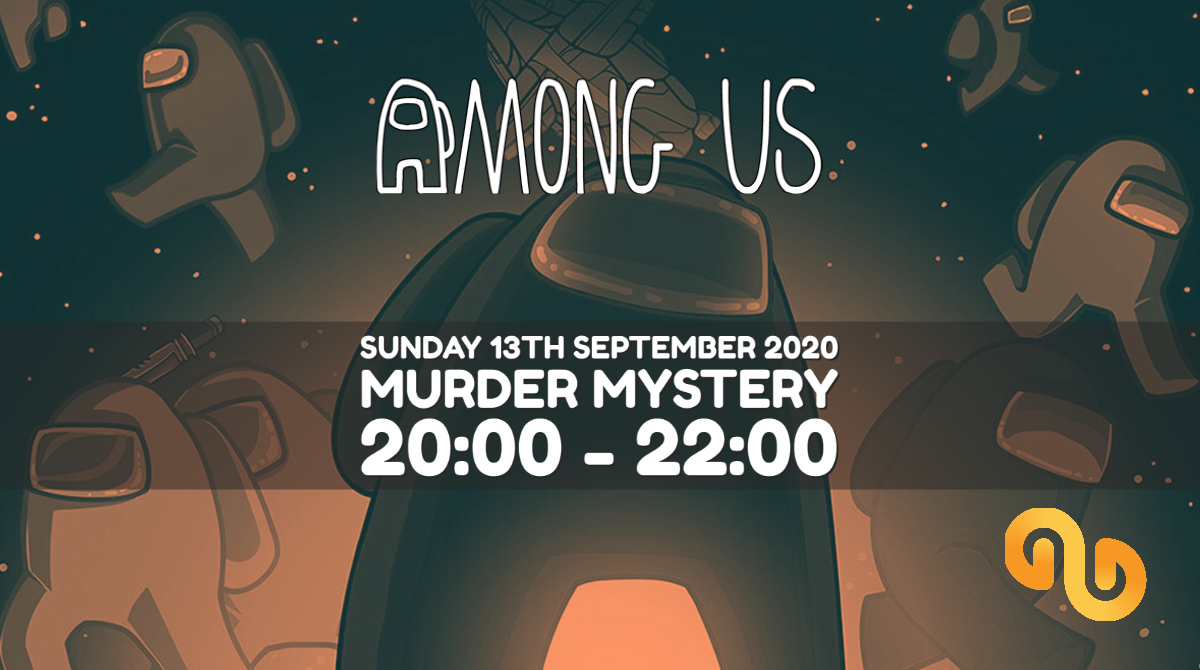
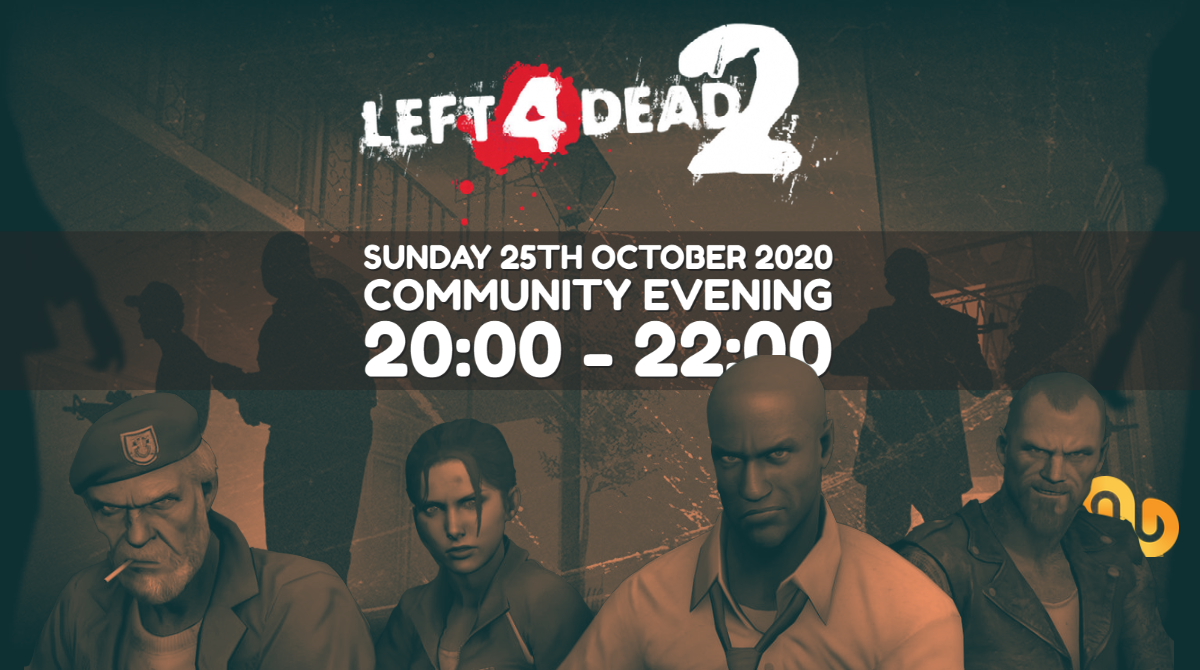
Updated nextevent.png and the list of upcoming events.

diff --git a/index.html b/index.html
@@ -109,7 +109,7 @@
 													-->
 													<p></p>
 													<footer>
-														<ul class="actions" style="position: absolute; bottom: -0; align-content: center;">
+														<ul class="actions" style="position: absolute; align-content: center;">
 															<!-- style="position: absolute; right: 0; bottom: 0;" -->
 															<li><a href="https://medium.com/@gghq" class="button alt" alt="GGHQ Medium">Go To Medium</a></li>
 														</ul>
@@ -125,7 +125,7 @@
 													<a href="#" class="center"><img src="images/lanstock.jpg" style="width:100%; height:auto; margin-left: auto; margin-right: auto;" alt="" /></a>
 													<p>Check what events are coming up next in the calendar, and see what events we've hosted </p>
 													<footer>
-														<ul class="actions">
+														<ul class="actions" style="position: absolute; align-content: center;">
 															<li><a href="http://beta.gghq.io/index.html#Recent Events" class="button alt">Event Info</a></li>
 																<!-- ATTENTION - THIS WILL NEED TO HAVE THE URL UPDATED PRIOR TO BEING PUSHED TO DIFFERENT ENVIRONMENTS -->
 														</ul>
@@ -141,7 +141,7 @@
 
 													<p></p>
 													<footer>
-														<ul class="actions">
+														<ul class="actions" style="position: absolute; align-content: center;">
 															<li><a href="https://twitter.com/gghqio" class="button alt">Follow Us</a></li>
 														</ul>
 													</footer>
@@ -252,6 +252,17 @@
 									  <h2><a id="Recent Events">Schedule</a></h2>
 									</header>
 									<ul class="dates">
+										
+										<li>
+											<span class="date">Oct <strong>25</strong></span>
+											<h3><a href="#">Left 4 Dead 2</a></h3>
+											<p>A multiplayer action game where the only objective is to survive</p>
+										</li>
+										<li>
+											<span class="date">Oct <strong>11</strong></span>
+											<h3><a href="#">Among Us</a></h3>
+											<p>A party game of teamwork and betrayal in space</p>
+										</li>
 										<li>
 											<span class="date">Sep <strong>30</strong></span>
 											<h3><a href="#">Among Us</a></h3>
@@ -267,16 +278,7 @@
 											<h3><a href="#">Among Us</a></h3>
 											<p>A party game of teamwork and betrayal in space</p>
 										</li>
-										<li>
-											<span class="date">Sep <strong>13</strong></span>
-											<h3><a href="#">Among Us</a></h3>
-											<p>A party game of teamwork and betrayal in space</p>
-										</li>
-										<li>
-											<span class="date">Aug <strong>23</strong></span>
-											<h3><a href="#">GMod Minigames</a></h3>
-											<p>Garry's Mod is a physics sandbox. We host various minigames for an evening</p>
-										</li>
+										
 									</ul>
 								</section>
 							</div>

diff --git a/assets/css/main.css b/assets/css/main.css
@@ -1570,7 +1570,7 @@ input, select, textarea {
 
 	.box {
 		background: #ffffff;
-		border-bottom: solid 1px #ccc;
+		border-bottom: solid 0px #ccc;
 		padding: 2.75em 1.75em 2.75em 1.75em;
 		height: 660px;
 	}
